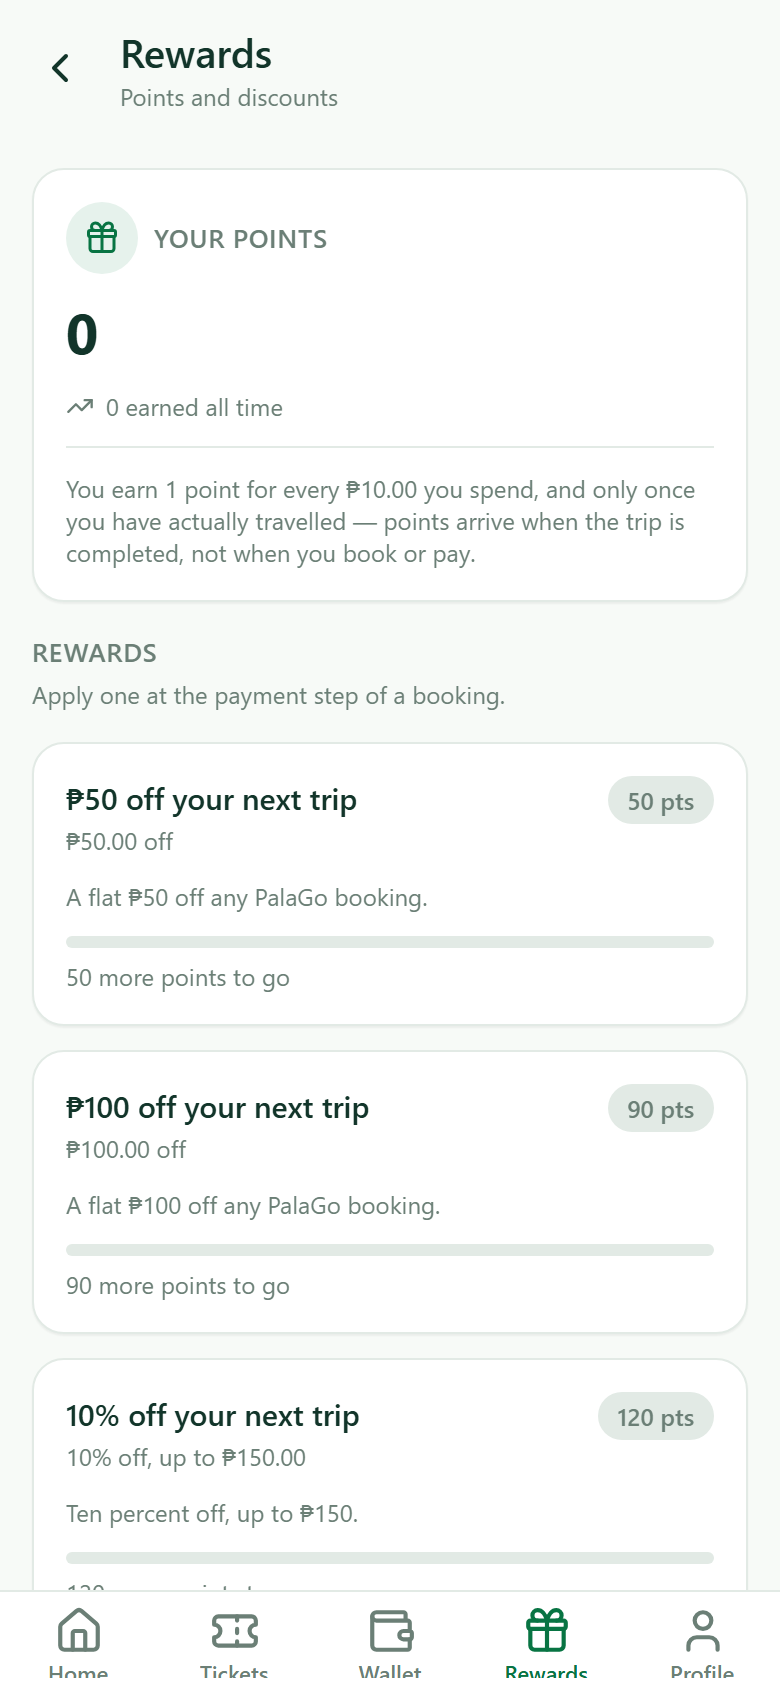
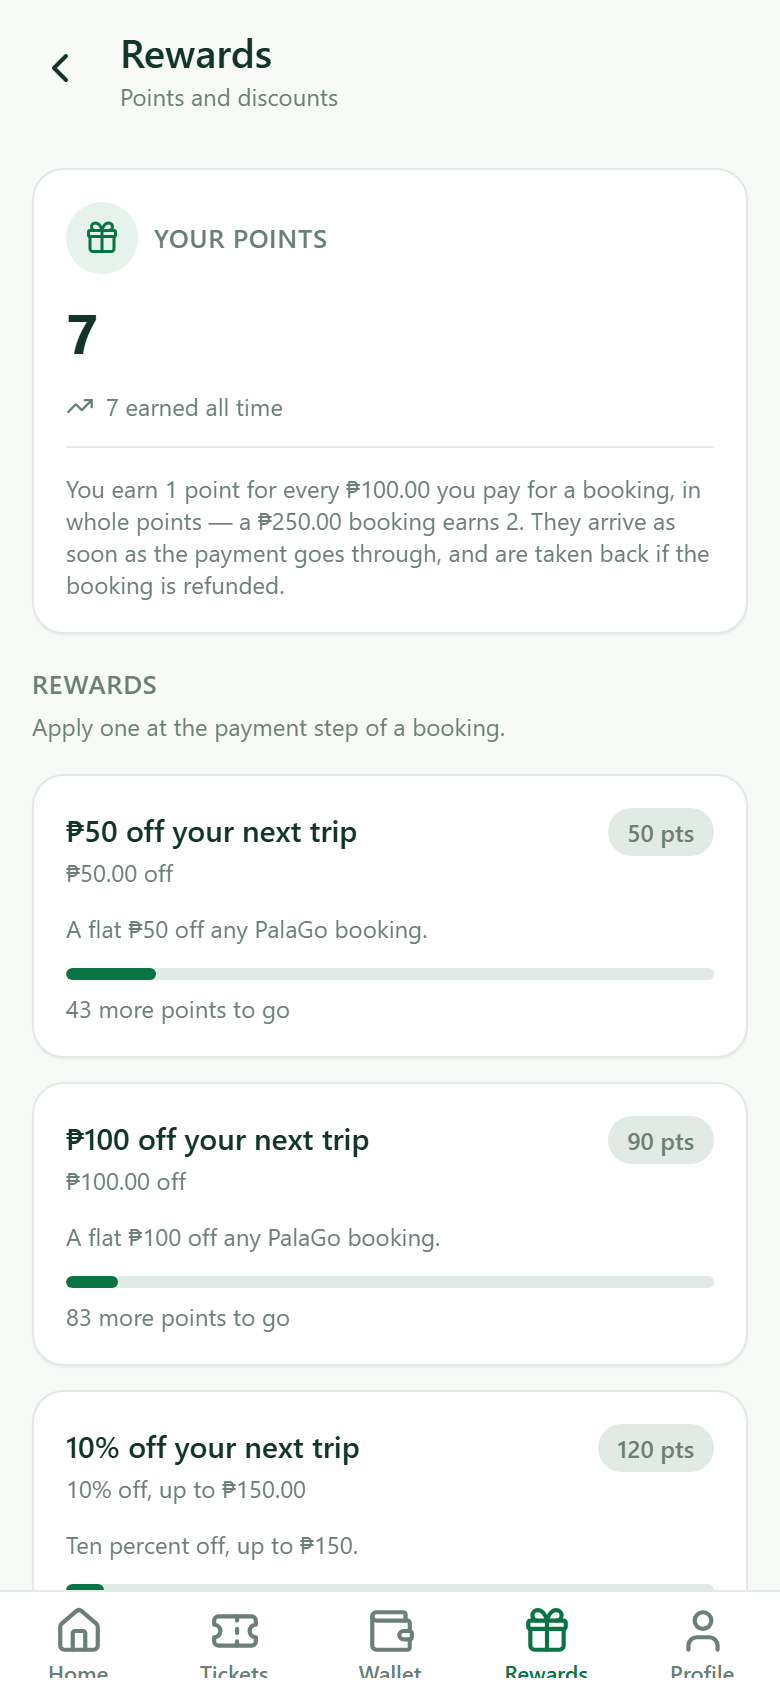
docs(walkthrough): re-shoot every screen; show a live SOS alert
- 40 screenshots, re-captured from the seed; 30 changed (loyalty rule, the
  Emergency tile without its phase label, the responder panel on the
  operator, driver and admin screens)
- the capture now sends one real SOS (Chrome granted a fixed location), so
  the panel is photographed with an alert in it: passenger, trip, coach,
  Call and map (16-sos-sent, 20b-operator-sos-alert)
- walkthrough text updated for loyalty on payment and SOS alerting

SOS panel: the five actions were full-width buttons, four in heavy
secondary yellow, stacking into a wall. Now Call passenger is the one
strong action and the rest are outline buttons sized to their labels.

Changed region(s): [[0.0308, 0.2773, 0.9231, 0.955], [0.7692, 0.4313, 0.9231, 0.5237], [0.0615, 0.1848, 0.1231, 0.2156]]

diff --git a/src/components/common/sos-monitor.tsx b/src/components/common/sos-monitor.tsx
@@ -188,11 +188,15 @@ export function SOSMonitor({
                 />
               </View>
 
+              {/* One strong action — calling the passenger — and the rest as
+                  outlines sized to their labels, so five actions wrap into a
+                  row instead of stacking into a wall of full-width buttons. */}
               <View className="flex-row flex-wrap gap-2">
                 {incident.passengerPhone ? (
                   <Button
                     label="Call passenger"
                     size="sm"
+                    fullWidth={false}
                     icon={<Phone size={14} color={Colors.textInverse} />}
                     onPress={() => open(sosCallUrl(incident.passengerPhone as string))}
                     accessibilityLabel={`Call ${incident.passengerName} on ${incident.passengerPhone}`}
@@ -201,7 +205,8 @@ export function SOSMonitor({
                 <Button
                   label="Open map"
                   size="sm"
-                  variant="secondary"
+                    fullWidth={false}
+                  variant="outline"
                   onPress={() => open(sosMapUrl(incident.latitude, incident.longitude))}
                   accessibilityLabel="Open the passenger's location in a map"
                 />
@@ -209,7 +214,8 @@ export function SOSMonitor({
                   <Button
                     label="Acknowledge"
                     size="sm"
-                    variant="secondary"
+                    fullWidth={false}
+                    variant="outline"
                     loading={acking === incident.id}
                     onPress={() =>
                       void run(() => acknowledge.mutateAsync(incident.id), 'Alert acknowledged')
@@ -221,7 +227,8 @@ export function SOSMonitor({
                   <Button
                     label="Responding"
                     size="sm"
-                    variant="secondary"
+                    fullWidth={false}
+                    variant="outline"
                     loading={responding === incident.id}
                     onPress={() =>
                       void run(() => respond.mutateAsync(incident.id), 'Marked as responding')
@@ -232,7 +239,8 @@ export function SOSMonitor({
                 <Button
                   label="Resolve"
                   size="sm"
-                  variant="secondary"
+                    fullWidth={false}
+                  variant="outline"
                   onPress={() => {
                     setNote('');
                     setResolving(incident);

diff --git a/docs/walkthrough.md b/docs/walkthrough.md
@@ -153,8 +153,11 @@ not just for being well-formed.
 <img src="screenshots/11-rewards.png" width="320" alt="Loyalty points balance and reward catalogue" />
 
 The balance and its ledger are written together or not at all. Points are
-awarded when a trip is **completed**, not when it is paid for — paying is not
-travelling.
+**one per ₱100 actually paid**, in whole points — a ₱250 booking earns 2 —
+credited the moment the payment goes through, whichever way it was paid. Each
+booking earns once however many times its payment is confirmed, and a refund
+takes the points back. The seeded passenger's 7 points are the ₱700 booking
+above.
 
 ### Tracking, emergencies, discounts, notifications
 
@@ -164,6 +167,17 @@ travelling.
 Tracking follows the bus while the trip is running. Position comes from the
 assigned driver's phone and only theirs, so the marker cannot jump between two
 devices.
+
+<img src="screenshots/16-sos-sent.png" width="320" alt="An emergency alert sent, listed under Your alerts with its location" />
+
+**Send SOS** reads the phone's location — giving up after 12 seconds and falling
+back to the last known fix rather than spinning forever indoors — and alerts
+everyone who can act on it: the operator running the trip, the driver and crew
+rostered on it, and every admin, each by notification and push. The passenger
+is told the alert was sent and nothing more; the app does not say help is
+coming until a responder has said so. Pressing again while it is open does not
+raise a second alert. This run sent one for real, so the operator, driver and
+admin screens below show it.
 
 <a id="discounts"></a>
 
@@ -193,6 +207,15 @@ operator **inside the view**, never by a filter the caller has to remember.
 Today's figures, aggregated server-side. The on-time percentage is `null` until
 something has actually departed rather than a confident 100%, and an uncrewed
 departure is called out as a warning.
+
+<img src="screenshots/20b-operator-sos-alert.png" width="900" alt="An open emergency alert on the operator dashboard: passenger name, trip, coach, route, location, and Call passenger, Open map, Acknowledge, Responding and Resolve" />
+
+Further down, the passenger's alert from above: who raised it, the trip, coach
+and route it concerns, where they were, and one tap to **call them** or **open
+the spot on a map**. The name and phone number come from a view that shows them
+only for alerts this operator may respond to — a rival operator sees nothing,
+and neither does any other passenger. Acknowledge, Responding and Resolve move
+it along, and each step appears on the passenger's own screen.
 
 ### Schedule
 
@@ -305,6 +328,11 @@ passenger reaching for the same seat produce one ticket.
 
 <img src="screenshots/30-admin-overview.png" width="900" alt="Platform overview with cross-operator totals" />
 
+Every open emergency alert on the platform sits at the top — including any raised
+by a passenger who is not on a trip, which has no operator to route it to and
+which only admins can see. (This run's alert was on a Cherry Bus trip, so here it
+appears as the operator's does above.)
+
 Platform-wide totals, and the same figures broken out per operator. The admin's
 revenue figure for a company is asserted equal to what that company sees on its
 own dashboard, so the two consoles cannot drift apart about money.
@@ -380,7 +408,10 @@ nobody waits forever — keep it.
 <img src="screenshots/40-driver-duty.png" width="320" alt="Driver's trips ordered by status: departed first, then scheduled, then arrived" />
 
 Deliberately separate from the operator console: crew must not see revenue and
-fleet. They see their own assignments and nothing else.
+fleet. They see their own assignments and nothing else — and, above them, any
+emergency alert raised on their trips. The crew are the nearest help there is,
+so the passenger's alert from the first journey is at the top of this screen,
+with the same Call and map buttons the operator has.
 
 The list is ordered by **what needs doing**, not by the calendar: the trip being
 driven first, then boarding, then scheduled (soonest first), then arrived — which
@@ -393,8 +424,9 @@ The trip lifecycle — open boarding, start, end — and position sharing, which
 off until the trip starts. Each step is idempotent: a retry after a dropped
 connection does not move a timestamp that was already recorded.
 
-Ending a trip is what completes the boarded passengers' bookings and awards
-their loyalty points.
+Ending a trip is what completes the boarded passengers' bookings. Their loyalty
+points were already credited when they paid; ending the trip checks and finds
+nothing left to award.
 
 <img src="screenshots/42-driver-scan.png" width="320" alt="Door scanner in the crew app" />
 
@@ -427,7 +459,9 @@ nobody can reach is worse than no screenshot.
 The shot list is [`scripts/walkthrough-steps.mjs`](../scripts/walkthrough-steps.mjs),
 written to read like this document. A broken step prints `!!` with its reason
 and the rest carry on, so one bad selector costs one picture rather than
-thirty-eight.
+forty. The run sends one real SOS (Chrome is given a fixed location near Roxas),
+so run it after `pnpm db:reset`, not before something else that expects no open
+alerts.
 
 ```bash
 WALKTHROUGH_ONLY=operator pnpm docs:screens
